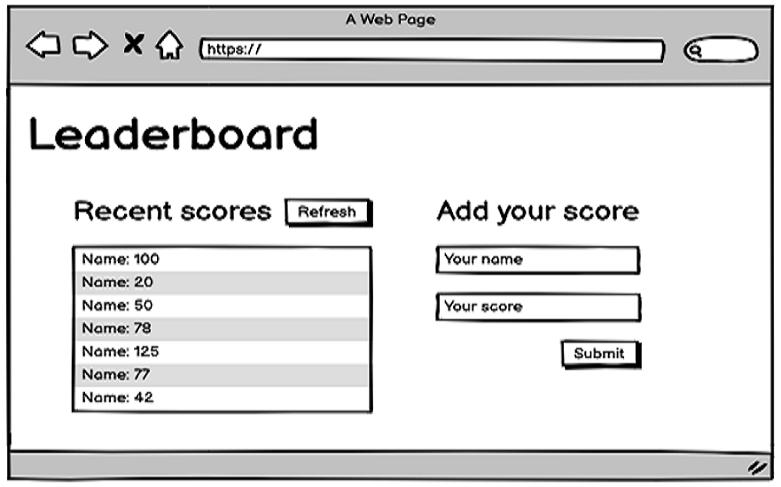
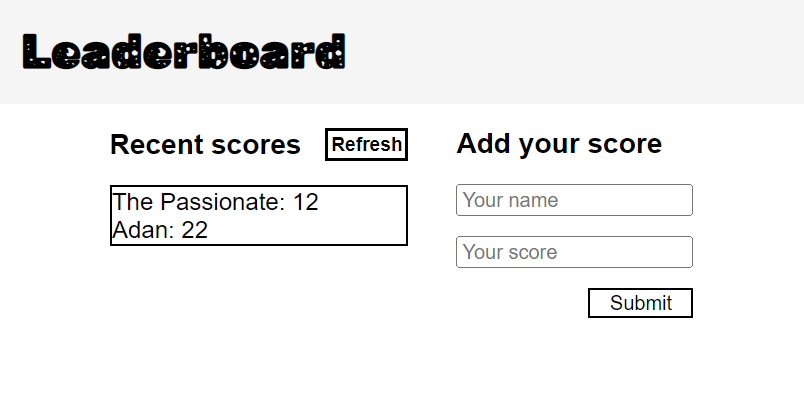
Implement project basic setup Add form functionality Implement add and refresh functionality

diff --git a/dist/index.bundle.js b/dist/index.bundle.js
@@ -16,7 +16,7 @@
   \*************************************************************/
 /***/ ((module, __webpack_exports__, __webpack_require__) => {
 
-eval("__webpack_require__.r(__webpack_exports__);\n/* harmony export */ __webpack_require__.d(__webpack_exports__, {\n/* harmony export */   \"default\": () => (__WEBPACK_DEFAULT_EXPORT__)\n/* harmony export */ });\n/* harmony import */ var _node_modules_css_loader_dist_runtime_noSourceMaps_js__WEBPACK_IMPORTED_MODULE_0__ = __webpack_require__(/*! ../node_modules/css-loader/dist/runtime/noSourceMaps.js */ \"./node_modules/css-loader/dist/runtime/noSourceMaps.js\");\n/* harmony import */ var _node_modules_css_loader_dist_runtime_noSourceMaps_js__WEBPACK_IMPORTED_MODULE_0___default = /*#__PURE__*/__webpack_require__.n(_node_modules_css_loader_dist_runtime_noSourceMaps_js__WEBPACK_IMPORTED_MODULE_0__);\n/* harmony import */ var _node_modules_css_loader_dist_runtime_api_js__WEBPACK_IMPORTED_MODULE_1__ = __webpack_require__(/*! ../node_modules/css-loader/dist/runtime/api.js */ \"./node_modules/css-loader/dist/runtime/api.js\");\n/* harmony import */ var _node_modules_css_loader_dist_runtime_api_js__WEBPACK_IMPORTED_MODULE_1___default = /*#__PURE__*/__webpack_require__.n(_node_modules_css_loader_dist_runtime_api_js__WEBPACK_IMPORTED_MODULE_1__);\n// Imports\n\n\nvar ___CSS_LOADER_EXPORT___ = _node_modules_css_loader_dist_runtime_api_js__WEBPACK_IMPORTED_MODULE_1___default()((_node_modules_css_loader_dist_runtime_noSourceMaps_js__WEBPACK_IMPORTED_MODULE_0___default()));\n// Module\n___CSS_LOADER_EXPORT___.push([module.id, \"body {\\r\\n  display: flex;\\r\\n  flex-direction: column;\\r\\n  margin: 0;\\r\\n}\\r\\n\", \"\"]);\n// Exports\n/* harmony default export */ const __WEBPACK_DEFAULT_EXPORT__ = (___CSS_LOADER_EXPORT___);\n\n\n//# sourceURL=webpack://leaderboard/./src/style.css?./node_modules/css-loader/dist/cjs.js");
+eval("__webpack_require__.r(__webpack_exports__);\n/* harmony export */ __webpack_require__.d(__webpack_exports__, {\n/* harmony export */   \"default\": () => (__WEBPACK_DEFAULT_EXPORT__)\n/* harmony export */ });\n/* harmony import */ var _node_modules_css_loader_dist_runtime_noSourceMaps_js__WEBPACK_IMPORTED_MODULE_0__ = __webpack_require__(/*! ../node_modules/css-loader/dist/runtime/noSourceMaps.js */ \"./node_modules/css-loader/dist/runtime/noSourceMaps.js\");\n/* harmony import */ var _node_modules_css_loader_dist_runtime_noSourceMaps_js__WEBPACK_IMPORTED_MODULE_0___default = /*#__PURE__*/__webpack_require__.n(_node_modules_css_loader_dist_runtime_noSourceMaps_js__WEBPACK_IMPORTED_MODULE_0__);\n/* harmony import */ var _node_modules_css_loader_dist_runtime_api_js__WEBPACK_IMPORTED_MODULE_1__ = __webpack_require__(/*! ../node_modules/css-loader/dist/runtime/api.js */ \"./node_modules/css-loader/dist/runtime/api.js\");\n/* harmony import */ var _node_modules_css_loader_dist_runtime_api_js__WEBPACK_IMPORTED_MODULE_1___default = /*#__PURE__*/__webpack_require__.n(_node_modules_css_loader_dist_runtime_api_js__WEBPACK_IMPORTED_MODULE_1__);\n// Imports\n\n\nvar ___CSS_LOADER_EXPORT___ = _node_modules_css_loader_dist_runtime_api_js__WEBPACK_IMPORTED_MODULE_1___default()((_node_modules_css_loader_dist_runtime_noSourceMaps_js__WEBPACK_IMPORTED_MODULE_0___default()));\n___CSS_LOADER_EXPORT___.push([module.id, \"@import url(https://fonts.googleapis.com/css2?family=Rubik+Moonrocks&display=swap);\"]);\n// Module\n___CSS_LOADER_EXPORT___.push([module.id, \"body {\\r\\n  font-family: sans-serif, serif, 'cursive';\\r\\n  display: flex;\\r\\n  flex-direction: column;\\r\\n  margin: 0;\\r\\n  min-width: 210px;\\r\\n}\\r\\n\\r\\nh1 {\\r\\n  font-family: 'Rubik Moonrocks', 'cursive', sans-serif;\\r\\n}\\r\\n\\r\\nul,\\r\\nh1,\\r\\nh3 {\\r\\n  padding: 0;\\r\\n  margin: 0;\\r\\n}\\r\\n\\r\\na,\\r\\nbutton {\\r\\n  cursor: pointer;\\r\\n}\\r\\n\\r\\nli {\\r\\n  list-style-type: none;\\r\\n}\\r\\n\\r\\nheader {\\r\\n  display: flex;\\r\\n  padding: 1em;\\r\\n  background-color: whitesmoke;\\r\\n}\\r\\n\\r\\nmain {\\r\\n  display: flex;\\r\\n  justify-content: center;\\r\\n  flex-wrap: wrap;\\r\\n  gap: 2em;\\r\\n  padding: 1em;\\r\\n}\\r\\n\\r\\n.left,\\r\\n.right {\\r\\n  display: flex;\\r\\n  flex-direction: column;\\r\\n  gap: 1em;\\r\\n}\\r\\n\\r\\n.left .header {\\r\\n  display: flex;\\r\\n  align-items: center;\\r\\n  gap: 1em;\\r\\n}\\r\\n\\r\\n.left .header a {\\r\\n  font-size: 0.8em;\\r\\n  font-weight: bold;\\r\\n  border: 0.2em solid black;\\r\\n  padding: 0.1em;\\r\\n}\\r\\n\\r\\n.left .list {\\r\\n  border: 0.1em solid black;\\r\\n}\\r\\n\\r\\n.right .add {\\r\\n  display: flex;\\r\\n  flex-direction: column;\\r\\n}\\r\\n\\r\\n.right .add input {\\r\\n  display: block;\\r\\n  margin-bottom: 1em;\\r\\n  width: 150px;\\r\\n}\\r\\n\\r\\n.right .add .button-wrapper {\\r\\n  display: flex;\\r\\n  justify-content: flex-end;\\r\\n}\\r\\n\\r\\n.right .add .button-wrapper button {\\r\\n  background-color: transparent;\\r\\n  border: 0.1em solid black;\\r\\n  width: 70px;\\r\\n}\\r\\n\", \"\"]);\n// Exports\n/* harmony default export */ const __WEBPACK_DEFAULT_EXPORT__ = (___CSS_LOADER_EXPORT___);\n\n\n//# sourceURL=webpack://leaderboard/./src/style.css?./node_modules/css-loader/dist/cjs.js");
 
 /***/ }),
 
@@ -116,7 +116,27 @@ eval("\n\n/* istanbul ignore next  */\nfunction styleTagTransform(css, styleElem
   \**********************/
 /***/ ((__unused_webpack_module, __webpack_exports__, __webpack_require__) => {
 
-eval("__webpack_require__.r(__webpack_exports__);\n/* harmony import */ var _style_css__WEBPACK_IMPORTED_MODULE_0__ = __webpack_require__(/*! ./style.css */ \"./src/style.css\");\n\n\nconsole.log('hi there');\nconsole.log('hi there 2');\n\n\n//# sourceURL=webpack://leaderboard/./src/index.js?");
+eval("__webpack_require__.r(__webpack_exports__);\n/* harmony import */ var _style_css__WEBPACK_IMPORTED_MODULE_0__ = __webpack_require__(/*! ./style.css */ \"./src/style.css\");\n/* harmony import */ var _modules_form_js__WEBPACK_IMPORTED_MODULE_1__ = __webpack_require__(/*! ./modules/form.js */ \"./src/modules/form.js\");\n/* harmony import */ var _modules_generate_js__WEBPACK_IMPORTED_MODULE_2__ = __webpack_require__(/*! ./modules/generate.js */ \"./src/modules/generate.js\");\n\n\n\n\nclass Leaderboard {\n  constructor(listArray) {\n    this.listArray = listArray;\n  }\n\n  render = () => {\n    (0,_modules_generate_js__WEBPACK_IMPORTED_MODULE_2__.add)(this.listArray);\n    (0,_modules_generate_js__WEBPACK_IMPORTED_MODULE_2__.refresh)(this.listArray);\n    (0,_modules_form_js__WEBPACK_IMPORTED_MODULE_1__[\"default\"])(this.listArray);\n  };\n}\n\nconst initializer = new Leaderboard([]);\ninitializer.render();\n\n\n//# sourceURL=webpack://leaderboard/./src/index.js?");
+
+/***/ }),
+
+/***/ "./src/modules/form.js":
+/*!*****************************!*\
+  !*** ./src/modules/form.js ***!
+  \*****************************/
+/***/ ((__unused_webpack_module, __webpack_exports__, __webpack_require__) => {
+
+eval("__webpack_require__.r(__webpack_exports__);\n/* harmony export */ __webpack_require__.d(__webpack_exports__, {\n/* harmony export */   \"default\": () => (__WEBPACK_DEFAULT_EXPORT__)\n/* harmony export */ });\nconst formAction = (listArray) => {\n  const form = document.querySelector('.add');\n  form.addEventListener('submit', (e) => {\n    e.preventDefault();\n    const [name, score] = form.elements;\n    if (name.value.trim() && score.value) {\n      const data = `${name.value.trim()}: ${score.value}`;\n      listArray.push(data);\n      name.value = '';\n      score.value = '';\n    }\n  });\n};\n\n/* harmony default export */ const __WEBPACK_DEFAULT_EXPORT__ = (formAction);\n\n\n//# sourceURL=webpack://leaderboard/./src/modules/form.js?");
+
+/***/ }),
+
+/***/ "./src/modules/generate.js":
+/*!*********************************!*\
+  !*** ./src/modules/generate.js ***!
+  \*********************************/
+/***/ ((__unused_webpack_module, __webpack_exports__, __webpack_require__) => {
+
+eval("__webpack_require__.r(__webpack_exports__);\n/* harmony export */ __webpack_require__.d(__webpack_exports__, {\n/* harmony export */   \"add\": () => (/* binding */ add),\n/* harmony export */   \"refresh\": () => (/* binding */ refresh)\n/* harmony export */ });\n// ADD FUNCTIONALITY\n\nconst add = (tasks) => {\n  const container = document.querySelector('.list');\n  if (container.children[0]) container.innerHTML = '';\n  tasks.forEach((task) => {\n    const taskEl = `\n    <li>${task}</li>`;\n\n    container.innerHTML += taskEl;\n  });\n};\n\n// REFRESH FUNCTIONALITY\n\nconst refresh = (tasks) => {\n  const refreshButton = document.querySelector('.refresh');\n  refreshButton.addEventListener('click', () => {\n    add(tasks);\n  });\n};\n\n\n\n\n//# sourceURL=webpack://leaderboard/./src/modules/generate.js?");
 
 /***/ })
 

diff --git a/src/style.css b/src/style.css
@@ -1,5 +1,89 @@
+@import url('https://fonts.googleapis.com/css2?family=Rubik+Moonrocks&display=swap');
+
 body {
+  font-family: sans-serif, serif, 'cursive';
   display: flex;
   flex-direction: column;
   margin: 0;
+  min-width: 210px;
+}
+
+h1 {
+  font-family: 'Rubik Moonrocks', 'cursive', sans-serif;
+}
+
+ul,
+h1,
+h3 {
+  padding: 0;
+  margin: 0;
+}
+
+a,
+button {
+  cursor: pointer;
+}
+
+li {
+  list-style-type: none;
+}
+
+header {
+  display: flex;
+  padding: 1em;
+  background-color: whitesmoke;
+}
+
+main {
+  display: flex;
+  justify-content: center;
+  flex-wrap: wrap;
+  gap: 2em;
+  padding: 1em;
+}
+
+.left,
+.right {
+  display: flex;
+  flex-direction: column;
+  gap: 1em;
+}
+
+.left .header {
+  display: flex;
+  align-items: center;
+  gap: 1em;
+}
+
+.left .header a {
+  font-size: 0.8em;
+  font-weight: bold;
+  border: 0.2em solid black;
+  padding: 0.1em;
+}
+
+.left .list {
+  border: 0.1em solid black;
+}
+
+.right .add {
+  display: flex;
+  flex-direction: column;
+}
+
+.right .add input {
+  display: block;
+  margin-bottom: 1em;
+  width: 150px;
+}
+
+.right .add .button-wrapper {
+  display: flex;
+  justify-content: flex-end;
+}
+
+.right .add .button-wrapper button {
+  background-color: transparent;
+  border: 0.1em solid black;
+  width: 70px;
 }

diff --git a/dist/index.html b/dist/index.html
@@ -6,5 +6,45 @@
     <meta name="viewport" content="width=device-width, initial-scale=1.0" />
     <title>Leaderboard list app</title>
   <script defer src="/leaderboard/index.bundle.js"></script></head>
-  <body></body>
+  <body>
+    <header>
+      <h1>Leaderboard</h1>
+    </header>
+    <main>
+      <div class="left">
+        <div class="header">
+          <h3>Recent scores</h3>
+          <a class="refresh">Refresh</a>
+        </div>
+        <ul class="list"></ul>
+      </div>
+      <div class="right">
+        <h3>Add your score</h3>
+        <form class="add" method="post" action="/">
+          <div>
+            <input
+              name="name"
+              id="name"
+              type="text"
+              maxlength="30"
+              placeholder="Your name"
+            />
+            <label for="name" hidden></label>
+            <input
+              name="score"
+              id="score"
+              type="number"
+              min="0"
+              max="100"
+              placeholder="Your score"
+            />
+            <label for="score" hidden></label>
+          </div>
+          <div class="button-wrapper">
+            <button type="submit">Submit</button>
+          </div>
+        </form>
+      </div>
+    </main>
+  </body>
 </html>

diff --git a/src/index.html b/src/index.html
@@ -6,5 +6,45 @@
     <meta name="viewport" content="width=device-width, initial-scale=1.0" />
     <title>Leaderboard list app</title>
   </head>
-  <body></body>
+  <body>
+    <header>
+      <h1>Leaderboard</h1>
+    </header>
+    <main>
+      <div class="left">
+        <div class="header">
+          <h3>Recent scores</h3>
+          <a class="refresh">Refresh</a>
+        </div>
+        <ul class="list"></ul>
+      </div>
+      <div class="right">
+        <h3>Add your score</h3>
+        <form class="add" method="post" action="/">
+          <div>
+            <input
+              name="name"
+              id="name"
+              type="text"
+              maxlength="30"
+              placeholder="Your name"
+            />
+            <label for="name" hidden></label>
+            <input
+              name="score"
+              id="score"
+              type="number"
+              min="0"
+              max="100"
+              placeholder="Your score"
+            />
+            <label for="score" hidden></label>
+          </div>
+          <div class="button-wrapper">
+            <button type="submit">Submit</button>
+          </div>
+        </form>
+      </div>
+    </main>
+  </body>
 </html>

diff --git a/src/modules/generate.js b/src/modules/generate.js
@@ -1,0 +1,23 @@
+// ADD FUNCTIONALITY
+
+const add = (tasks) => {
+  const container = document.querySelector('.list');
+  if (container.children[0]) container.innerHTML = '';
+  tasks.forEach((task) => {
+    const taskEl = `
+    <li>${task}</li>`;
+
+    container.innerHTML += taskEl;
+  });
+};
+
+// REFRESH FUNCTIONALITY
+
+const refresh = (tasks) => {
+  const refreshButton = document.querySelector('.refresh');
+  refreshButton.addEventListener('click', () => {
+    add(tasks);
+  });
+};
+
+export { add, refresh };

diff --git a/src/index.js b/src/index.js
@@ -1,4 +1,18 @@
 import './style.css';
+import Form from './modules/form.js';
+import { add as Add, refresh as Refresh } from './modules/generate.js';
 
-console.log('hi there');
-console.log('hi there 2');
+class Leaderboard {
+  constructor(listArray) {
+    this.listArray = listArray;
+  }
+
+  render = () => {
+    Add(this.listArray);
+    Refresh(this.listArray);
+    Form(this.listArray);
+  };
+}
+
+const initializer = new Leaderboard([]);
+initializer.render();

diff --git a/src/modules/form.js b/src/modules/form.js
@@ -1,0 +1,15 @@
+const formAction = (listArray) => {
+  const form = document.querySelector('.add');
+  form.addEventListener('submit', (e) => {
+    e.preventDefault();
+    const [name, score] = form.elements;
+    if (name.value.trim() && score.value) {
+      const data = `${name.value.trim()}: ${score.value}`;
+      listArray.push(data);
+      name.value = '';
+      score.value = '';
+    }
+  });
+};
+
+export default formAction;

diff --git a/README.md b/README.md
@@ -8,7 +8,7 @@
   Demo 📝
 </h2>
 
-<img src="https://github.com/Yazino12/leaderboard/blob/develop/src/assets/demo.png?raw=true" width="781" height="487">
+<img src="https://github.com/Yazino12/leaderboard/blob/develop/src/assets/demo.png?raw=true" width="804" height="394">
 
 ## Built With
 
